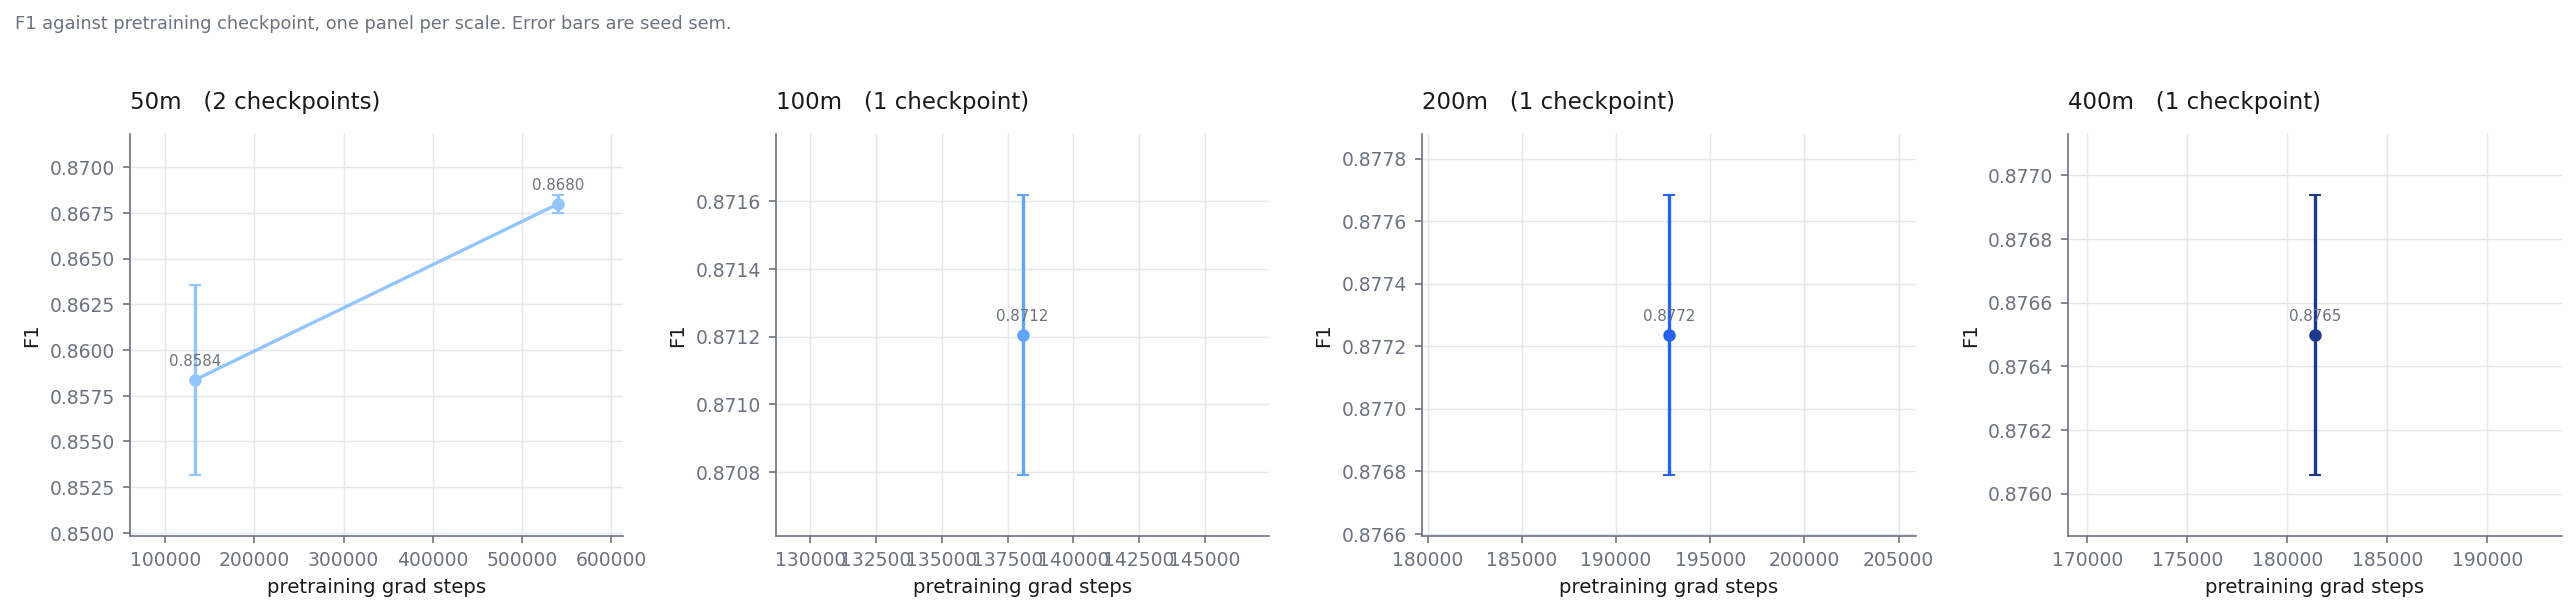
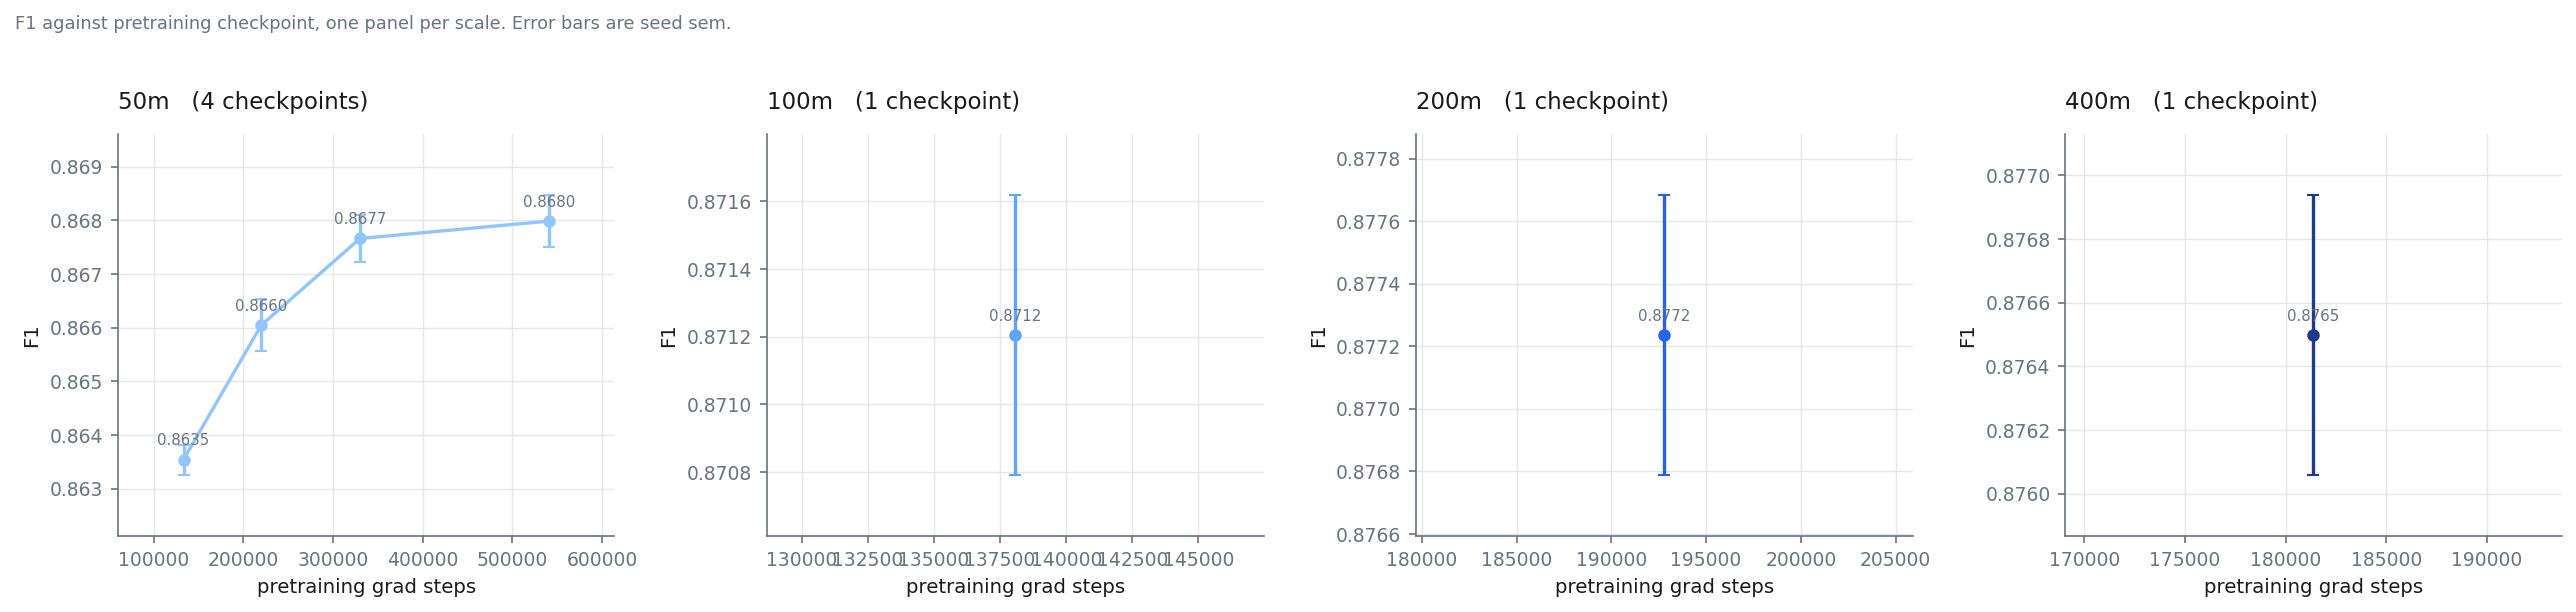
First D3 and C1-extension results; tests and figures move off the login node
D3, 50m (8850494): AUROC 0.9324 / 0.9344 / 0.9359 / 0.9365 and F1 0.8635 / 0.8660 /
0.8677 / 0.8680 at 133k / 220k / 330k / 540k -- more pretraining helps, with
diminishing returns. plot_ladder.py now excludes job 8840345, the first 216-arm
grid scored on a reduced 1,440-spectrum test set and already marked not
comparable; one of its arms (0.8597) had dragged the 50m@133k point to 0.927.
Its prose suptitles are gone; "pretraining grad steps (not compute)" is the x
label instead.

C1 (sweep-conneg, 8856643, 108/108): temperature ~0.005 at 50m/100m, 0.003 at
200m; width beyond 64 loses at fixed epochs but that is confounded with optimizer
step count until the step-matched controls land; best-per-scale MAP@R rises
50m 0.751 < 100m 0.783 < 200m 0.788. Recorded in OBSERVATIONS.md, PLAN.md C1/C2.
New sweeps/plot_c1.py draws MAP@R against width per temperature and scale.

Nothing heavy runs on the login node any more. The CPU test suite timed out
twice there (load ~670); on a debug node via pbs/run_tests.pbs (job 8856984) it
passed, 375 passed / 26 skipped in 3 min, and this commit is gated on that. The
device suite in the same job segfaulted -- it has no earlier recorded run, so
this is logged as TODO FT26 rather than treated as a regression. Figures are
regenerated by pbs/make_figures.pbs on a compute node.

Claude-Session: https://claude.ai/code/session_01ATgkXx1oRRqvzB3G8wYeta

diff --git a/sweeps/plot_c1.py b/sweeps/plot_c1.py
@@ -1,0 +1,157 @@
+"""Contrastive recipe (PLAN.md C1) and scale at the best recipe (C2). Run on a compute node.
+
+    python sweeps/plot_c1.py
+
+Combines sweep-conbig (8856460: t 0.01-0.03, width 4-64) and sweep-conneg (8856643 and
+8856642: t 0.003-0.01, width 64-512), all at checkpoint-220000, scored on MAP@R.
+
+  c1_width_temperature.png  MAP@R against batch width (P*K, log scale), one line per
+                            temperature, one panel per scale. Error bars are seed sem.
+  c1_scale.png              each scale's best cell, with its seed sem.
+
+Step-matched controls (arms with an _epNN tag) are drawn as open markers on the 50m
+panel, at their width.
+"""
+
+from __future__ import annotations
+
+import collections
+import glob
+import json
+import os
+import re
+from pathlib import Path
+
+import matplotlib
+matplotlib.use("Agg")
+import matplotlib.pyplot as plt
+import numpy as np
+
+REPO = Path(__file__).resolve().parent.parent
+RUNS = "/lus/flare/projects/UIC-HPC/khuss/msdelta/runs"
+FIGS = REPO / "results" / "finetune" / "contrastive" / "figures"
+JOBS = ("8856460", "8856643", "8856642")
+METRIC = "retrieval/MAP@R"
+INK, MUTED, GRID = "#1a1a1a", "#6b7280", "#e5e7eb"
+SCALES = ("050m", "100m", "200m", "400m")
+SCALE_COLOUR = {"050m": "#93c5fd", "100m": "#60a5fa", "200m": "#2563eb", "400m": "#1e3a8a"}
+TEMP_COLOUR = {0.003: "#7c2d12", 0.005: "#c2410c", 0.01: "#f97316",
+               0.02: "#fdba74", 0.03: "#fed7aa"}
+
+plt.rcParams.update({
+    "figure.dpi": 150, "savefig.dpi": 150, "savefig.bbox": "tight",
+    "font.size": 9, "axes.titlesize": 11, "axes.labelsize": 9.5,
+    "axes.edgecolor": MUTED, "axes.labelcolor": INK, "text.color": INK,
+    "xtick.color": MUTED, "ytick.color": MUTED, "axes.linewidth": 0.8,
+    "axes.spines.top": False, "axes.spines.right": False,
+    "grid.color": GRID, "grid.linewidth": 0.7, "figure.facecolor": "white",
+})
+
+ARM = re.compile(r"^s(\d{3}m)_t(\d+)_pk(\d+)(?:_ep(\d+))?_seed\d+$")
+
+
+def temperature(digits: str) -> float:
+    # arm tags drop the decimal point: 001 -> 0.01, 002 -> 0.02, 0003 -> 0.003
+    return int(digits) / 10 ** (len(digits) - 1)
+
+
+def collect():
+    main = collections.defaultdict(list)       # (scale, t, width) -> values
+    ctrl = collections.defaultdict(list)       # (scale, t, width, epochs) -> values
+    for job in JOBS:
+        for d in glob.glob(f"{RUNS}/sweep-*-{job}"):
+            p = os.path.join(d, "all_results.json")
+            if not os.path.exists(p):
+                continue
+            try:
+                r = json.load(open(p))
+            except Exception:
+                continue
+            if METRIC not in r:
+                continue
+            m = ARM.match(re.sub(rf"^sweep-|-{job}$", "", os.path.basename(d)))
+            if not m:
+                continue
+            scale, t, width, ep = m.group(1), temperature(m.group(2)), int(m.group(3)), m.group(4)
+            if ep:
+                ctrl[(scale, t, width, int(ep))].append(r[METRIC])
+            else:
+                main[(scale, t, width)].append(r[METRIC])
+    return main, ctrl
+
+
+def stat(v):
+    a = np.array(v)
+    return a.mean(), (a.std(ddof=1) / len(a) ** 0.5 if len(a) > 1 else 0.0)
+
+
+def width_temperature(main, ctrl):
+    fig, axes = plt.subplots(1, len(SCALES), figsize=(4.2 * len(SCALES), 3.9), sharey=True)
+    for ax, s in zip(axes, SCALES):
+        temps = sorted({t for (ss, t, _) in main if ss == s})
+        for t in temps:
+            pts = sorted((w, stat(v)) for (ss, tt, w), v in main.items() if ss == s and tt == t)
+            if not pts:
+                continue
+            x = [p[0] for p in pts]; y = [p[1][0] for p in pts]; e = [p[1][1] for p in pts]
+            ax.errorbar(x, y, yerr=e, marker="o", ms=4, lw=1.5, capsize=2,
+                        color=TEMP_COLOUR.get(t, MUTED), label=f"t {t:g}")
+        for (ss, t, w, ep), v in ctrl.items():
+            if ss != s:
+                continue
+            m, e = stat(v)
+            ax.errorbar([w], [m], yerr=[e], marker="o", ms=6, mfc="white", lw=0,
+                        elinewidth=1, capsize=2, color=TEMP_COLOUR.get(t, MUTED))
+            ax.annotate(f"{ep} ep", (w, m), textcoords="offset points", xytext=(6, -3),
+                        fontsize=7.5, color=MUTED)
+        ax.set_xscale("log", base=2)
+        ax.set_xticks([4, 16, 64, 128, 256, 512])
+        ax.set_xticklabels(["4", "16", "64", "128", "256", "512"])
+        ax.set_title(s.lstrip("0"), loc="left")
+        ax.set_xlabel("batch width P×K")
+        ax.grid(); ax.set_axisbelow(True)
+    axes[0].set_ylabel("MAP@R")
+    axes[-1].legend(frameon=False, fontsize=8, title="temperature", title_fontsize=8)
+    fig.tight_layout()
+    out = FIGS / "c1_width_temperature.png"
+    fig.savefig(out); plt.close(fig)
+    return out
+
+
+def scale(main):
+    fig, ax = plt.subplots(figsize=(4.6, 3.8))
+    xs, ys, es, labels = [], [], [], []
+    for i, s in enumerate(SCALES):
+        cells = [(stat(v), t, w) for (ss, t, w), v in main.items() if ss == s and len(v) >= 2]
+        if not cells:
+            continue
+        (m, e), t, w = max(cells, key=lambda c: c[0][0])
+        xs.append(i); ys.append(m); es.append(e); labels.append(f"t {t:g}, width {w}")
+        ax.errorbar([i], [m], yerr=[e], marker="o", ms=7, capsize=3, color=SCALE_COLOUR[s])
+        ax.annotate(f"{m:.3f}", (i, m), textcoords="offset points", xytext=(0, 8),
+                    ha="center", fontsize=8)
+        ax.annotate(labels[-1], (i, m), textcoords="offset points", xytext=(0, -16),
+                    ha="center", fontsize=7, color=MUTED)
+    ax.plot(xs, ys, color=MUTED, lw=1, zorder=0)
+    ax.set_xticks(range(len(SCALES)))
+    ax.set_xticklabels([s.lstrip("0") for s in SCALES])
+    ax.set_xlabel("model size"); ax.set_ylabel("best MAP@R")
+    ax.set_title("best recipe per scale, checkpoint 220k", loc="left")
+    ax.margins(y=0.25); ax.grid(axis="y"); ax.set_axisbelow(True)
+    fig.tight_layout()
+    out = FIGS / "c1_scale.png"
+    fig.savefig(out); plt.close(fig)
+    return out
+
+
+def main() -> int:
+    FIGS.mkdir(parents=True, exist_ok=True)
+    main_, ctrl = collect()
+    print(f"  cells: {len(main_)} main, {len(ctrl)} control")
+    for out in (width_temperature(main_, ctrl), scale(main_)):
+        print(f"  wrote {out.relative_to(REPO)}")
+    return 0
+
+
+if __name__ == "__main__":
+    raise SystemExit(main())

diff --git a/sweeps/plot_ladder.py b/sweeps/plot_ladder.py
@@ -45,6 +45,13 @@ CONFIG = {"--learning_rate": "2e-4", "--encoder_lr_scale": "0.5",
           "--per_device_train_batch_size": "1"}
 
 
+# Jobs whose test scores are not comparable. 8840345 was the first 216-arm grid, scored
+# on a reduced test set (1,440 spectra, not ~8,600) -- results/finetune/README.md marks
+# it "not comparable". One of its arms (0.8597) sat in the 50m@133k cell and dragged
+# that point from 0.932 to 0.927.
+EXCLUDE_JOBS = {"8840345"}
+
+
 def matches_config(text: str) -> bool:
     fields = dict(zip(text.split()[::2], text.split()[1::2]))
     return all(fields.get(k) == v for k, v in CONFIG.items())
@@ -82,7 +89,7 @@ def collect():
     out = collections.defaultdict(lambda: collections.defaultdict(list))
     for d in glob.glob(f"{RUNS}/sweep-*"):
         m = re.match(r"sweep-(.+)-(\d+)$", os.path.basename(d))
-        if not m or m.group(1) not in meta:
+        if not m or m.group(1) not in meta or m.group(2) in EXCLUDE_JOBS:
             continue
         p = os.path.join(d, "all_results.json")
         if not os.path.exists(p):
@@ -125,11 +132,8 @@ def by_scale(cov, metric, name):
         label_points(ax, x, y)
         ax.set_title(f"{s}   ({len(pts)} checkpoint{'s' if len(pts) > 1 else ''})",
                      loc="left", pad=12)
-        ax.set_xlabel("pretraining grad steps"); ax.set_ylabel(name)
+        ax.set_xlabel("pretraining grad steps (not compute)"); ax.set_ylabel(name)
         ax.grid(); ax.set_axisbelow(True); ax.margins(x=0.18, y=0.22)
-    fig.suptitle(f"{name} against pretraining checkpoint, one panel per scale. "
-                 f"Error bars are seed sem.", x=0.005, ha="left", fontsize=8.5,
-                 color=MUTED, y=1.03)
     fig.tight_layout()
     out = FIGS / f"ladder_by_scale_{metric.replace('test_', '')}.png"
     fig.savefig(out); plt.close(fig); return out
@@ -155,8 +159,6 @@ def by_checkpoint(cov, metric, name):
         ax.set_title(f"step {c:,}", loc="left", pad=12)
         ax.set_xlabel("model size"); ax.set_ylabel(name)
         ax.grid(); ax.set_axisbelow(True); ax.margins(x=0.22, y=0.22)
-    fig.suptitle(f"{name} against model size, one panel per pretraining checkpoint.",
-                 x=0.005, ha="left", fontsize=8.5, color=MUTED, y=1.03)
     fig.tight_layout()
     out = FIGS / f"ladder_by_checkpoint_{metric.replace('test_', '')}.png"
     fig.savefig(out); plt.close(fig); return out
@@ -172,7 +174,7 @@ def combined(cov, metric, name, ax):
         ax.errorbar(x, y, yerr=e, marker="o", ms=5, lw=1.7, capsize=3,
                     color=SCALE_COLOUR[s], label=s)
         label_points(ax, x, y)
-    ax.set_xlabel("pretraining grad steps"); ax.set_ylabel(name)
+    ax.set_xlabel("pretraining grad steps (not compute)"); ax.set_ylabel(name)
     ax.set_title(name, loc="left", pad=12)
     ax.grid(); ax.set_axisbelow(True); ax.margins(x=0.16, y=0.22)
     ax.legend(frameon=False, fontsize=8.5, title="model size", title_fontsize=8.5)
@@ -193,10 +195,6 @@ def main() -> int:
     fig, axes = plt.subplots(1, 2, figsize=(12.4, 4.4))
     for ax, (metric, name) in zip(axes, (("test_auroc", "AUROC"), ("test_f1", "F1"))):
         combined(cov, metric, name, ax)
-    fig.suptitle("Denoise across scale AND pretraining checkpoint. x is pretraining "
-                 "grad steps, NOT compute -- a 400m step costs ~8x a 50m step, so this "
-                 "axis understates the large models.",
-                 x=0.005, ha="left", fontsize=8.5, color=MUTED, y=1.04)
     fig.tight_layout()
     out = FIGS / "ladder_compute.png"
     fig.savefig(out); plt.close(fig); written.append(out)

diff --git a/notes/PLAN.md b/notes/PLAN.md
@@ -37,8 +37,8 @@ Status: ✅ answered · 🟡 partly · ⏳ running/queued · ⬜ not started
 | id | question | status | evidence / job |
 |---|---|---|---|
 | C0 | Is our metric valid? | ✅ | separation ratio does NOT predict retrieval (ρ −0.04 within scale). Use MAP@R |
-| C1 | What is the best training recipe? | ⏳ | wider batches and colder temperature both win by a lot: best MAP@R 0.45 → **0.77** (t0.01, 64 negatives). Both still at their edge → `sweep-conneg` (t 0.003–0.01 × width 64–512, + step-matched controls) |
-| C2 | Does retrieval improve with model size? | 🟡 | at the best cell 400m 0.765 ≈ 100m 0.764 > 50m 0.718 ≈ 200m 0.720 (220k, 3 seeds). The old "worse with scale" was a width-4 artefact. `sweep-conneg` adds seeds |
+| C1 | What is the best training recipe? | ⏳ | temperature ≈0.005 (0.003 at 200m, maybe colder with scale); width 64 beats 128–512 at 3 epochs but that is confounded with step count — step-matched controls in `8856642` (queued). Best MAP@R 0.45 → **0.79** |
+| C2 | Does retrieval improve with model size? | 🟡 | at each scale's best cell 50m 0.751 < 100m 0.783 < 200m 0.788 (220k, 3 seeds) — monotone so far; 400m in `8856642` |
 | C3 | How much does pretraining buy? | ✅ | ALL of it: random init trained contrastively lands at chance at every scale (MAP@100 ≈0.01, Hit@1 ≈0.03 vs 0.33–0.41 / 0.75–0.78 pretrained, t=16–96, 6 seeds). It never reaches even the UNTRAINED pretrained encoder. Since random = chance, the gap is just the pretrained score and updates with C2 |
 | C4 | Does retrieval improve with pretraining checkpoint? | 🟡 | ladder `8851663` ran at t0.07 — superseded recipe. Re-run after C1 |
 | C5 | Do contrastive HPs transfer across scale/checkpoint? | ✅ | same winner in all 5 cells (4 scales + 50m@540k), mean pairwise ρ +0.81; t0.03 beat t0.07 in all 4 cells tested |

diff --git a/notes/OBSERVATIONS.md b/notes/OBSERVATIONS.md
@@ -917,3 +917,30 @@ STATED AT THE STRENGTH IT HAS: 3 seeds per cell; seed sems at this recipe have r
 0.004-0.02, an order of magnitude below the width and temperature effects. The scale
 ordering at the best cell (gaps of ~0.001-0.05) needs the next grid's seeds before it
 is quoted as a curve.
+
+## Temperature settles near 0.005; wider than 64 loses at fixed epochs; retrieval rises with scale
+
+sweep-conneg, debug-scaling half (job 8856643, 108/108 arms): 50m/100m/200m at
+checkpoint-220000, lr1e-4, KL10, K=4, 3 epochs, 3 seeds, MAP@R.
+
+    best cell per scale       width 64
+    50m    t0.005   0.7508     (t0.003 0.7482, t0.01 0.7186)
+    100m   t0.005   0.7825     (t0.003 0.7731, t0.01 0.7636)
+    200m   t0.003   0.7878     (t0.005 0.7697, t0.01 0.7200)
+
+The t0.01 / width-64 anchor reproduces sweep-conbig to 0.0003 at every scale.
+
+TEMPERATURE: interior at 50m and 100m (0.005 >= 0.003 > 0.01), but at 200m 0.003 is
+best and is the coldest value tried, so the optimum may move colder with scale.
+400m (capacity half, 8856642) decides whether that pattern holds.
+
+WIDTH: beyond 64, MAP@R falls steeply at every scale and temperature, e.g. 50m t0.005
+0.751 / 0.697 / 0.602 / 0.440 at 64 / 128 / 256 / 512. AMBIGUOUS AS IT STANDS: at a
+fixed 3 epochs width 512 takes ~80 optimizer steps against ~660 at 64. The
+step-matched controls (256 x 12 epochs, 512 x 24 epochs, 50m) in 8856642 separate
+"fewer steps" from "more negatives stop helping". Do not quote "64 is optimal" before
+they land.
+
+SCALE: at each scale's best cell, 50m 0.751 < 100m 0.783 < 200m 0.788 -- the first
+monotone contrastive scaling seen in this project. 200m's apparent weakness at t0.01
+was a temperature effect: it needs a colder setting than the small models.

diff --git a/notes/TODO.md b/notes/TODO.md
@@ -773,6 +773,15 @@ The runner now walks down from the newest and takes the first checkpoint that ha
 trainer_state.json, logging each one it skips; the cost is one save interval (200
 steps). Retried as 8856558.
 
+## FT26. The device test suite (tests/gpu) segfaults — **Open**
+
+First recorded run of pbs/run_tests.pbs (job 8856984): the CPU suite passed on the
+compute node (375 passed, 26 skipped, 3 min), then `pytest tests/gpu` died with a
+Segmentation fault. No earlier log of the device suite exists, so this is not a
+regression we can date -- the suite has simply never been seen to pass. Which test
+crashes is being found with a verbose per-test run. Until it passes, commits are gated
+on the CPU suite only.
+
 ## Naming trap: our R@5 is not the literature's Recall@K
 
 Ours is the fraction of a query's relevant spectra in its top 5; the literature's
